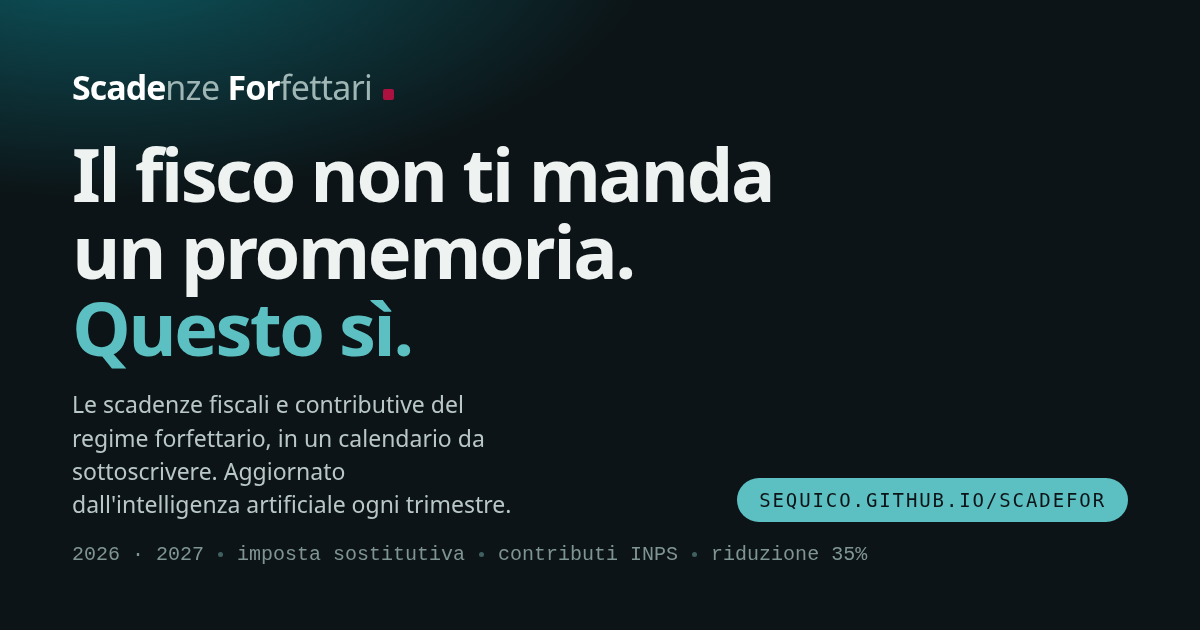
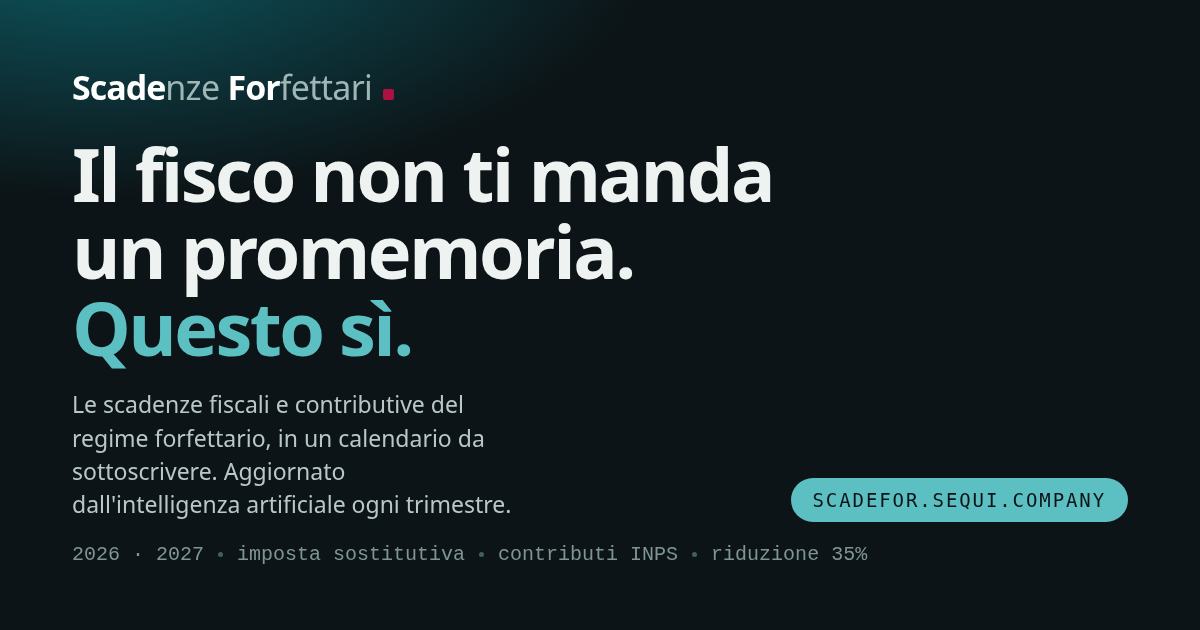
Pubblica su scadefor.sequi.company
Dominio personalizzato attivo: gli indirizzi pubblici (pagina, link di
iscrizione, canonico, sitemap, anteprima) passano al dominio proprio.

Gli UID degli eventi restano volutamente su sequico.github.io: separati dal
dominio di pubblicazione, cosi' un cambio di indirizzo non fa comparire gli
eventi come nuovi a chi e' gia' iscritto.

Changed region(s): [[0.6167, 0.754, 0.925, 0.8444]]

diff --git a/public/index.html b/public/index.html
@@ -5,7 +5,7 @@
 <meta name="viewport" content="width=device-width, initial-scale=1">
 <title>Scadenze forfettario 2026 e 2027 — calendario ICS da sottoscrivere</title>
 <meta name="description" content="Le scadenze fiscali e contributive del regime forfettario per il 2026 e 2027: saldo e acconti dell'imposta sostitutiva, rate INPS di artigiani e commercianti, riduzione del 35%, importi calcolati e fonti di legge. Tre calendari ICS da sottoscrivere, aggiornati dall'intelligenza artificiale ogni trimestre.">
-<link rel="canonical" href="https://sequico.github.io/scadefor/">
+<link rel="canonical" href="https://scadefor.sequi.company/">
 <meta name="robots" content="index, follow, max-snippet:-1, max-image-preview:large, max-video-preview:-1">
 <meta name="author" content="Sequi Company">
 <meta name="theme-color" content="#0d5a63">
@@ -16,23 +16,23 @@
 <meta property="og:locale" content="it_IT">
 <meta property="og:title" content="Scadenze forfettario 2026 e 2027 — calendario ICS da sottoscrivere">
 <meta property="og:description" content="Le scadenze fiscali e contributive del regime forfettario per il 2026 e 2027: saldo e acconti dell'imposta sostitutiva, rate INPS di artigiani e commercianti, riduzione del 35%, importi calcolati e fonti di legge. Tre calendari ICS da sottoscrivere, aggiornati dall'intelligenza artificiale ogni trimestre.">
-<meta property="og:url" content="https://sequico.github.io/scadefor/">
-<meta property="og:image" content="https://sequico.github.io/scadefor/og-image.png">
+<meta property="og:url" content="https://scadefor.sequi.company/">
+<meta property="og:image" content="https://scadefor.sequi.company/og-image.png">
 <meta property="og:image:width" content="1200">
 <meta property="og:image:height" content="630">
 <meta property="og:image:alt" content="Scadenze del regime forfettario in un calendario da sottoscrivere">
 <meta name="twitter:card" content="summary_large_image">
 <meta name="twitter:title" content="Scadenze forfettario 2026 e 2027 — calendario ICS da sottoscrivere">
 <meta name="twitter:description" content="Le scadenze fiscali e contributive del regime forfettario per il 2026 e 2027: saldo e acconti dell'imposta sostitutiva, rate INPS di artigiani e commercianti, riduzione del 35%, importi calcolati e fonti di legge. Tre calendari ICS da sottoscrivere, aggiornati dall'intelligenza artificiale ogni trimestre.">
-<meta name="twitter:image" content="https://sequico.github.io/scadefor/og-image.png">
+<meta name="twitter:image" content="https://scadefor.sequi.company/og-image.png">
 
-<link rel="alternate" hreflang="it" href="https://sequico.github.io/scadefor/">
-<link rel="alternate" hreflang="x-default" href="https://sequico.github.io/scadefor/">
+<link rel="alternate" hreflang="it" href="https://scadefor.sequi.company/">
+<link rel="alternate" hreflang="x-default" href="https://scadefor.sequi.company/">
 <link rel="sitemap" type="application/xml" href="/sitemap.xml">
   <link rel="alternate" type="text/calendar" href="gestione-separata.ics" title="Gestione Separata" hreflang="it">
   <link rel="alternate" type="text/calendar" href="artigiani-ridotto-35.ics" title="Artigiani (riduzione 35%)" hreflang="it">
   <link rel="alternate" type="text/calendar" href="commercianti-ridotto-35.ics" title="Commercianti (riduzione 35%)" hreflang="it">
-<script type="application/ld+json">{"@context":"https://schema.org","@graph":[{"@type":"WebSite","@id":"https://sequico.github.io/scadefor/#sito","url":"https://sequico.github.io/scadefor/","name":"scadefor — Scadenze Forfettari","alternateName":"Scadenze del regime forfettario","inLanguage":"it-IT","description":"Le scadenze fiscali e contributive del regime forfettario per il 2026 e 2027: saldo e acconti dell'imposta sostitutiva, rate INPS di artigiani e commercianti, riduzione del 35%, importi calcolati e fonti di legge. Tre calendari ICS da sottoscrivere, aggiornati dall'intelligenza artificiale ogni trimestre.","publisher":{"@id":"https://sequico.github.io/scadefor/#organizzazione"}},{"@type":"Organization","@id":"https://sequico.github.io/scadefor/#organizzazione","name":"Sequi Company","url":"https://sequi.company"},{"@type":"WebPage","@id":"https://sequico.github.io/scadefor/#pagina","url":"https://sequico.github.io/scadefor/","name":"Scadenze forfettario 2026 e 2027 — calendario ICS da sottoscrivere","description":"Le scadenze fiscali e contributive del regime forfettario per il 2026 e 2027: saldo e acconti dell'imposta sostitutiva, rate INPS di artigiani e commercianti, riduzione del 35%, importi calcolati e fonti di legge. Tre calendari ICS da sottoscrivere, aggiornati dall'intelligenza artificiale ogni trimestre.","inLanguage":"it-IT","isPartOf":{"@id":"https://sequico.github.io/scadefor/#sito"},"publisher":{"@id":"https://sequico.github.io/scadefor/#organizzazione"},"isAccessibleForFree":true,"keywords":["scadenze forfettario","scadenze forfettario 2026 e 2027","calendario scadenze forfettario","regime forfettario","imposta sostitutiva acconto","contributi INPS artigiani e commercianti","riduzione contributiva 35 per cento","calendario ICS"],"dateModified":"2026-09-15T17:07:21.875Z"},{"@type":"ItemList","name":"Calendari di scadenze per il regime forfettario","numberOfItems":3,"itemListElement":[{"@type":"ListItem","position":1,"name":"Scadenze forfettario — Gestione Separata","description":"Professionisti e lavoratori autonomi senza altra copertura previdenziale obbligatoria, iscritti alla Gestione separata INPS.","url":"https://sequico.github.io/scadefor/gestione-separata.ics"},{"@type":"ListItem","position":2,"name":"Scadenze forfettario — Artigiani (riduzione 35%)","description":"Imprenditori artigiani in regime forfettario iscritti alla gestione artigiani INPS, con riduzione contributiva del 35%.","url":"https://sequico.github.io/scadefor/artigiani-ridotto-35.ics"},{"@type":"ListItem","position":3,"name":"Scadenze forfettario — Commercianti (riduzione 35%)","description":"Imprenditori commerciali in regime forfettario iscritti alla gestione commercianti INPS, con riduzione contributiva del 35%.","url":"https://sequico.github.io/scadefor/commercianti-ridotto-35.ics"}]},{"@type":"FAQPage","mainEntity":[{"@type":"Question","name":"Quali sono le scadenze del regime forfettario nel 2026?","acceptedAnswer":{"@type":"Answer","text":"Nel 2026 un forfettario affronta due scadenze d'imposta — il 30 giugno per saldo e primo acconto e il 30 novembre per il secondo acconto — più, se è artigiano o commerciante, quattro rate contributive (febbraio, maggio, agosto e novembre) e l'opzione per la riduzione del 35% entro il 28 febbraio. Le date esatte, comprese le variazioni quando la scadenza cade di sabato o in un giorno festivo, sono elencate in questa pagina e nei calendari."}},{"@type":"Question","name":"Quando si paga il saldo e il primo acconto dell'imposta sostitutiva?","acceptedAnswer":{"@type":"Answer","text":"Il saldo dell'anno precedente e il primo acconto dell'anno corrente si versano entro il 30 giugno, il secondo acconto entro il 30 novembre. Per il regime forfettario l'acconto è in due rate di pari importo, quindi metà a giugno e metà a novembre: la ripartizione 50 e 50 viene dalla risoluzione dell'Agenzia delle Entrate n. 93/E del 12 novembre 2019, che estende ai forfettari quanto previsto dall'art. 58 del D.L. 124/2019."}},{"@type":"Question","name":"Quando si versano i contributi INPS di artigiani e commercianti?","acceptedAnswer":{"@type":"Answer","text":"Il contributo minimo obbligatorio si paga in quattro rate, nei mesi di febbraio, maggio, agosto e novembre, entro il giorno 16 di ciascun mese; se il 16 non è un giorno lavorativo la scadenza slitta al primo giorno lavorativo successivo. La rata di agosto cade al 20 per la sospensione feriale dei versamenti dall'1 al 20 agosto. Il contributo eccedente il minimale si versa in due acconti di pari importo alle scadenze delle imposte sui redditi."}},{"@type":"Question","name":"Come si ottiene la riduzione contributiva del 35% per il regime forfettario?","acceptedAnswer":{"@type":"Answer","text":"La riduzione del 35% della contribuzione IVS spetta agli artigiani e ai commercianti in regime forfettario. Va chiesta all'INPS entro il 28 febbraio dell'anno per cui la si richiede: non è automatica. Riduce i contributi ma riduce anche l'accredito pensionistico, in proporzione a quanto si versa. Chi è nella Gestione Separata non può accedervi."}},{"@type":"Question","name":"Quanto si paga di contributi nel regime forfettario?","acceptedAnswer":{"@type":"Answer","text":"Artigiani e commercianti calcolano i contributi su un minimale di reddito, non sul reddito effettivo: nel 2026 il minimale è 18.808 €. Con la riduzione del 35% il contributo annuo scende a circa i due terzi. Nella sezione «Come si calcola quanto versi» di questa pagina trovi gli importi per ciascun profilo, con la tariffa piena e quella ridotta affiancate."}},{"@type":"Question","name":"Il calendario si aggiorna da solo?","acceptedAnswer":{"@type":"Answer","text":"Se lo sottoscrivi sì: il calendario si aggiorna automaticamente ogni trimestre, quando l'intelligenza artificiale che gestisce il servizio ricontrolla le fonti ufficiali, e le date cambiano da sole nella tua agenda. Se invece scarichi il file, quello è una fotografia di oggi e resta fermo."}},{"@type":"Question","name":"Come si sottoscrive il calendario su Google Calendar o su iPhone?","acceptedAnswer":{"@type":"Answer","text":"Scegli il tuo profilo e usa il link webcal:// oppure l'indirizzo .ics nella funzione «aggiungi calendario da URL» del tuo client. Su Google Calendar tieni presente che i promemoria contenuti nei calendari sottoscritti via URL non vengono applicati e vanno impostati a mano; su Apple Calendario, Thunderbird e Outlook funzionano invece da soli."}},{"@type":"Question","name":"Questo calendario è affidabile? Chi lo verifica?","acceptedAnswer":{"@type":"Answer","text":"Nessun professionista lo verifica, e questo è dichiarato in evidenza. Il servizio è interamente automatico: un modello di intelligenza artificiale cerca le fonti, propone le date e gli importi, e il sistema applica una modifica solo se la frase citata a sostegno compare davvero nella pagina della fonte. Ogni scadenza porta un timbro che dice se l'IA è riuscita a confermarla, e i dati non confermati sono elencati qui sotto. È un'intelligenza artificiale: può sbagliare. Prima di versare, verifica sui portali ufficiali o con il tuo consulente."}}]}]}</script>
+<script type="application/ld+json">{"@context":"https://schema.org","@graph":[{"@type":"WebSite","@id":"https://scadefor.sequi.company/#sito","url":"https://scadefor.sequi.company/","name":"scadefor — Scadenze Forfettari","alternateName":"Scadenze del regime forfettario","inLanguage":"it-IT","description":"Le scadenze fiscali e contributive del regime forfettario per il 2026 e 2027: saldo e acconti dell'imposta sostitutiva, rate INPS di artigiani e commercianti, riduzione del 35%, importi calcolati e fonti di legge. Tre calendari ICS da sottoscrivere, aggiornati dall'intelligenza artificiale ogni trimestre.","publisher":{"@id":"https://scadefor.sequi.company/#organizzazione"}},{"@type":"Organization","@id":"https://scadefor.sequi.company/#organizzazione","name":"Sequi Company","url":"https://sequi.company"},{"@type":"WebPage","@id":"https://scadefor.sequi.company/#pagina","url":"https://scadefor.sequi.company/","name":"Scadenze forfettario 2026 e 2027 — calendario ICS da sottoscrivere","description":"Le scadenze fiscali e contributive del regime forfettario per il 2026 e 2027: saldo e acconti dell'imposta sostitutiva, rate INPS di artigiani e commercianti, riduzione del 35%, importi calcolati e fonti di legge. Tre calendari ICS da sottoscrivere, aggiornati dall'intelligenza artificiale ogni trimestre.","inLanguage":"it-IT","isPartOf":{"@id":"https://scadefor.sequi.company/#sito"},"publisher":{"@id":"https://scadefor.sequi.company/#organizzazione"},"isAccessibleForFree":true,"keywords":["scadenze forfettario","scadenze forfettario 2026 e 2027","calendario scadenze forfettario","regime forfettario","imposta sostitutiva acconto","contributi INPS artigiani e commercianti","riduzione contributiva 35 per cento","calendario ICS"],"dateModified":"2026-09-15T17:07:21.875Z"},{"@type":"ItemList","name":"Calendari di scadenze per il regime forfettario","numberOfItems":3,"itemListElement":[{"@type":"ListItem","position":1,"name":"Scadenze forfettario — Gestione Separata","description":"Professionisti e lavoratori autonomi senza altra copertura previdenziale obbligatoria, iscritti alla Gestione separata INPS.","url":"https://scadefor.sequi.company/gestione-separata.ics"},{"@type":"ListItem","position":2,"name":"Scadenze forfettario — Artigiani (riduzione 35%)","description":"Imprenditori artigiani in regime forfettario iscritti alla gestione artigiani INPS, con riduzione contributiva del 35%.","url":"https://scadefor.sequi.company/artigiani-ridotto-35.ics"},{"@type":"ListItem","position":3,"name":"Scadenze forfettario — Commercianti (riduzione 35%)","description":"Imprenditori commerciali in regime forfettario iscritti alla gestione commercianti INPS, con riduzione contributiva del 35%.","url":"https://scadefor.sequi.company/commercianti-ridotto-35.ics"}]},{"@type":"FAQPage","mainEntity":[{"@type":"Question","name":"Quali sono le scadenze del regime forfettario nel 2026?","acceptedAnswer":{"@type":"Answer","text":"Nel 2026 un forfettario affronta due scadenze d'imposta — il 30 giugno per saldo e primo acconto e il 30 novembre per il secondo acconto — più, se è artigiano o commerciante, quattro rate contributive (febbraio, maggio, agosto e novembre) e l'opzione per la riduzione del 35% entro il 28 febbraio. Le date esatte, comprese le variazioni quando la scadenza cade di sabato o in un giorno festivo, sono elencate in questa pagina e nei calendari."}},{"@type":"Question","name":"Quando si paga il saldo e il primo acconto dell'imposta sostitutiva?","acceptedAnswer":{"@type":"Answer","text":"Il saldo dell'anno precedente e il primo acconto dell'anno corrente si versano entro il 30 giugno, il secondo acconto entro il 30 novembre. Per il regime forfettario l'acconto è in due rate di pari importo, quindi metà a giugno e metà a novembre: la ripartizione 50 e 50 viene dalla risoluzione dell'Agenzia delle Entrate n. 93/E del 12 novembre 2019, che estende ai forfettari quanto previsto dall'art. 58 del D.L. 124/2019."}},{"@type":"Question","name":"Quando si versano i contributi INPS di artigiani e commercianti?","acceptedAnswer":{"@type":"Answer","text":"Il contributo minimo obbligatorio si paga in quattro rate, nei mesi di febbraio, maggio, agosto e novembre, entro il giorno 16 di ciascun mese; se il 16 non è un giorno lavorativo la scadenza slitta al primo giorno lavorativo successivo. La rata di agosto cade al 20 per la sospensione feriale dei versamenti dall'1 al 20 agosto. Il contributo eccedente il minimale si versa in due acconti di pari importo alle scadenze delle imposte sui redditi."}},{"@type":"Question","name":"Come si ottiene la riduzione contributiva del 35% per il regime forfettario?","acceptedAnswer":{"@type":"Answer","text":"La riduzione del 35% della contribuzione IVS spetta agli artigiani e ai commercianti in regime forfettario. Va chiesta all'INPS entro il 28 febbraio dell'anno per cui la si richiede: non è automatica. Riduce i contributi ma riduce anche l'accredito pensionistico, in proporzione a quanto si versa. Chi è nella Gestione Separata non può accedervi."}},{"@type":"Question","name":"Quanto si paga di contributi nel regime forfettario?","acceptedAnswer":{"@type":"Answer","text":"Artigiani e commercianti calcolano i contributi su un minimale di reddito, non sul reddito effettivo: nel 2026 il minimale è 18.808 €. Con la riduzione del 35% il contributo annuo scende a circa i due terzi. Nella sezione «Come si calcola quanto versi» di questa pagina trovi gli importi per ciascun profilo, con la tariffa piena e quella ridotta affiancate."}},{"@type":"Question","name":"Il calendario si aggiorna da solo?","acceptedAnswer":{"@type":"Answer","text":"Se lo sottoscrivi sì: il calendario si aggiorna automaticamente ogni trimestre, quando l'intelligenza artificiale che gestisce il servizio ricontrolla le fonti ufficiali, e le date cambiano da sole nella tua agenda. Se invece scarichi il file, quello è una fotografia di oggi e resta fermo."}},{"@type":"Question","name":"Come si sottoscrive il calendario su Google Calendar o su iPhone?","acceptedAnswer":{"@type":"Answer","text":"Scegli il tuo profilo e usa il link webcal:// oppure l'indirizzo .ics nella funzione «aggiungi calendario da URL» del tuo client. Su Google Calendar tieni presente che i promemoria contenuti nei calendari sottoscritti via URL non vengono applicati e vanno impostati a mano; su Apple Calendario, Thunderbird e Outlook funzionano invece da soli."}},{"@type":"Question","name":"Questo calendario è affidabile? Chi lo verifica?","acceptedAnswer":{"@type":"Answer","text":"Nessun professionista lo verifica, e questo è dichiarato in evidenza. Il servizio è interamente automatico: un modello di intelligenza artificiale cerca le fonti, propone le date e gli importi, e il sistema applica una modifica solo se la frase citata a sostegno compare davvero nella pagina della fonte. Ogni scadenza porta un timbro che dice se l'IA è riuscita a confermarla, e i dati non confermati sono elencati qui sotto. È un'intelligenza artificiale: può sbagliare. Prima di versare, verifica sui portali ufficiali o con il tuo consulente."}}]}]}</script>
 <style>
 :root{
   --inchiostro:#0d1b21; --tenue:#5c6d72; --carta:#eef2f1; --superficie:#fff;
@@ -453,7 +453,7 @@ Il codice sorgente è pubblico e consultabile: chiunque può ispezionare la logi
     <p class="descrizione">Sei professionista o lavoratore autonomo senza cassa previdenziale: i contributi si calcolano sul reddito che fatturi davvero, senza minimale. Qui trovi le due scadenze che ti riguardano, con il conto già fatto.</p>
     <ul class="promessa"><li>due scadenze all'anno</li><li>nessun minimale</li><li>aliquota sul reddito</li></ul>
     <div class="azioni">
-      <a class="pulsante" href="webcal://sequico.github.io/scadefor/gestione-separata.ics">Iscriviti al calendario</a>
+      <a class="pulsante" href="webcal://scadefor.sequi.company/gestione-separata.ics">Iscriviti al calendario</a>
       <p class="alternativa">Si sottoscrive nel client che usi già e da quel momento si aggiorna da solo.</p>
       <div class="scarica">
         <span class="etichetta">Oppure scarica l'anno</span>
@@ -461,7 +461,7 @@ Il codice sorgente è pubblico e consultabile: chiunque può ispezionare la logi
         <a href="gestione-separata-2027.ics">2027</a>
         <span class="formato-riga">file <code>.ics</code>, statico</span>
       </div>
-      <div class="indirizzo">webcal://sequico.github.io/scadefor/gestione-separata.ics</div>
+      <div class="indirizzo">webcal://scadefor.sequi.company/gestione-separata.ics</div>
     </div>
   </article>
   <article class="calendario">
@@ -470,7 +470,7 @@ Il codice sorgente è pubblico e consultabile: chiunque può ispezionare la logi
     <p class="descrizione">Sei artigiano e hai chiesto la riduzione del 35%: gli importi sono già calcolati al netto, senza che tu debba rifare il conto ogni trimestre.</p>
     <ul class="promessa"><li>quattro rate, più saldo e acconti</li><li>riduzione 35% già applicata</li><li>promemoria per il 28 febbraio</li></ul>
     <div class="azioni">
-      <a class="pulsante" href="webcal://sequico.github.io/scadefor/artigiani-ridotto-35.ics">Iscriviti al calendario</a>
+      <a class="pulsante" href="webcal://scadefor.sequi.company/artigiani-ridotto-35.ics">Iscriviti al calendario</a>
       <p class="alternativa">Si sottoscrive nel client che usi già e da quel momento si aggiorna da solo.</p>
       <div class="scarica">
         <span class="etichetta">Oppure scarica l'anno</span>
@@ -478,7 +478,7 @@ Il codice sorgente è pubblico e consultabile: chiunque può ispezionare la logi
         <a href="artigiani-ridotto-35-2027.ics">2027</a>
         <span class="formato-riga">file <code>.ics</code>, statico</span>
       </div>
-      <div class="indirizzo">webcal://sequico.github.io/scadefor/artigiani-ridotto-35.ics</div>
+      <div class="indirizzo">webcal://scadefor.sequi.company/artigiani-ridotto-35.ics</div>
     </div>
   </article>
   <article class="calendario">
@@ -487,7 +487,7 @@ Il codice sorgente è pubblico e consultabile: chiunque può ispezionare la logi
     <p class="descrizione">Sei commerciante e hai chiesto la riduzione del 35%: aliquota e importi sono già ridotti, rate trimestrali comprese.</p>
     <ul class="promessa"><li>quattro rate, più saldo e acconti</li><li>riduzione 35% già applicata</li><li>aliquota commercianti ridotta</li></ul>
     <div class="azioni">
-      <a class="pulsante" href="webcal://sequico.github.io/scadefor/commercianti-ridotto-35.ics">Iscriviti al calendario</a>
+      <a class="pulsante" href="webcal://scadefor.sequi.company/commercianti-ridotto-35.ics">Iscriviti al calendario</a>
       <p class="alternativa">Si sottoscrive nel client che usi già e da quel momento si aggiorna da solo.</p>
       <div class="scarica">
         <span class="etichetta">Oppure scarica l'anno</span>
@@ -495,7 +495,7 @@ Il codice sorgente è pubblico e consultabile: chiunque può ispezionare la logi
         <a href="commercianti-ridotto-35-2027.ics">2027</a>
         <span class="formato-riga">file <code>.ics</code>, statico</span>
       </div>
-      <div class="indirizzo">webcal://sequico.github.io/scadefor/commercianti-ridotto-35.ics</div>
+      <div class="indirizzo">webcal://scadefor.sequi.company/commercianti-ridotto-35.ics</div>
     </div>
   </article>
   </div>

diff --git a/script/genera-og-image.ts b/script/genera-og-image.ts
@@ -76,7 +76,7 @@ const html = `<!DOCTYPE html>
   <div class="riga">
     <p class="scadenze">Le scadenze fiscali e contributive del regime forfettario, in un calendario
     da sottoscrivere. Aggiornato dall'intelligenza artificiale ogni trimestre.</p>
-    <span class="bollo">sequico.github.io/scadefor</span>
+    <span class="bollo">scadefor.sequi.company</span>
   </div>
   <div class="piede">
     <span class="mono">2026 · 2027</span><span class="sep"></span>

diff --git a/README.md b/README.md
@@ -7,7 +7,7 @@ regime forfettario, per l'anno corrente e per il successivo. Architettura static
 zero-manutenzione: nessun database, nessun server applicativo, nessuna dipendenza da installare.
 Tutto lo stato vive nei file versionati, e la cronologia dei commit è il registro delle modifiche.
 
-Sito: <https://sequico.github.io/scadefor/>
+Sito: <https://scadefor.sequi.company/>
 
 ---
 
@@ -15,9 +15,9 @@ Sito: <https://sequico.github.io/scadefor/>
 
 Tre calendari, tutti per il regime forfettario:
 
-- **Gestione Separata** — `webcal://sequico.github.io/scadefor/gestione-separata.ics`
-- **Artigiani, riduzione 35%** — `webcal://sequico.github.io/scadefor/artigiani-ridotto-35.ics`
-- **Commercianti, riduzione 35%** — `webcal://sequico.github.io/scadefor/commercianti-ridotto-35.ics`
+- **Gestione Separata** — `webcal://scadefor.sequi.company/gestione-separata.ics`
+- **Artigiani, riduzione 35%** — `webcal://scadefor.sequi.company/artigiani-ridotto-35.ics`
+- **Commercianti, riduzione 35%** — `webcal://scadefor.sequi.company/commercianti-ridotto-35.ics`
 
 Per la Gestione Separata la riduzione contributiva non è applicabile, quindi non compare fra le
 opzioni. Per artigiani e commercianti la riduzione del 35% è già applicata nei calcoli: i calendari
